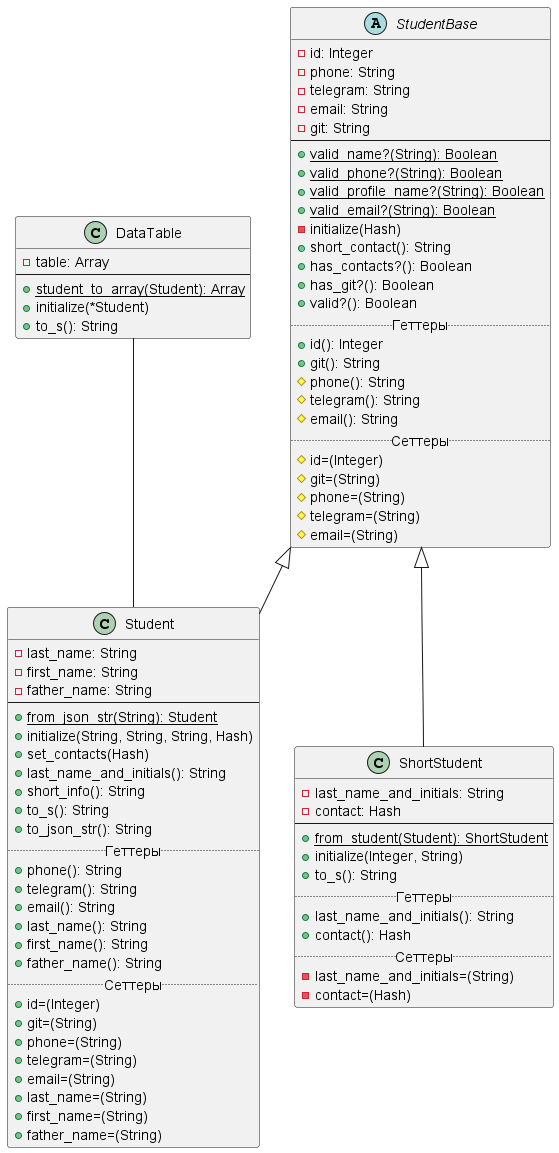
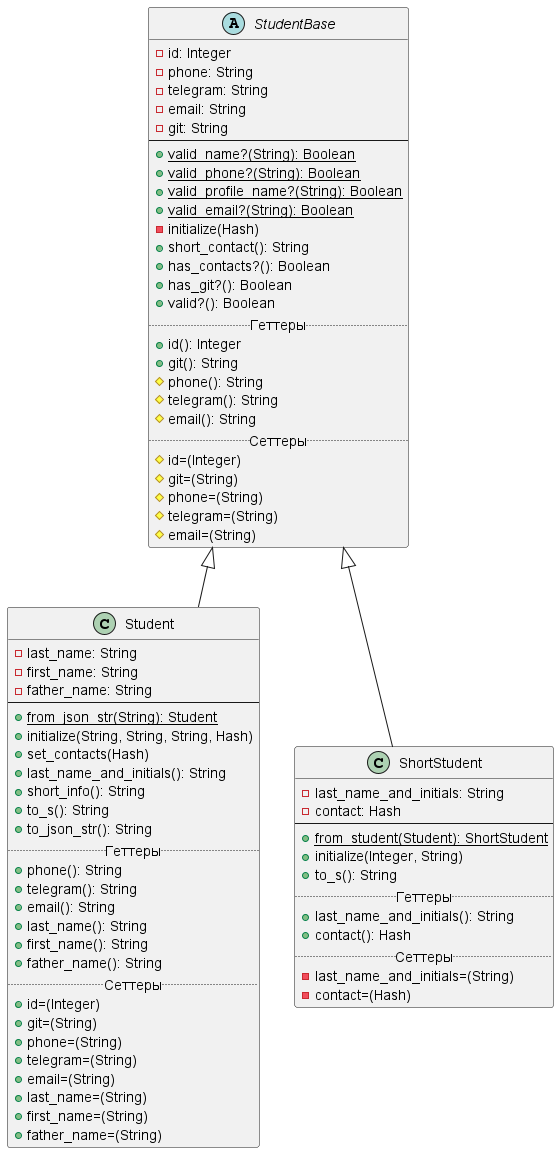
Revert "Класс DataTable (Лаб 2, Задание 3.1)"

diff --git a/Lab2/main.rb b/Lab2/main.rb
@@ -2,7 +2,6 @@
 
 require_relative 'student'
 require_relative 'student_short'
-require_relative 'data_table'
 
 student1 = Student.new('Иванов', 'Иван', 'Иванович')
 student2 = Student.new('Сараев', 'Поджог', 'Равшанович', { id: 1, telegram: 'nightfire' })
@@ -64,9 +63,3 @@ puts student5.short_info
 
 short1 = StudentShort.from_student(student5)
 puts short1
-
-puts '--------------------------------'
-
-table = DataTable.new(student1, student2, student3, student4, student5)
-
-puts table
